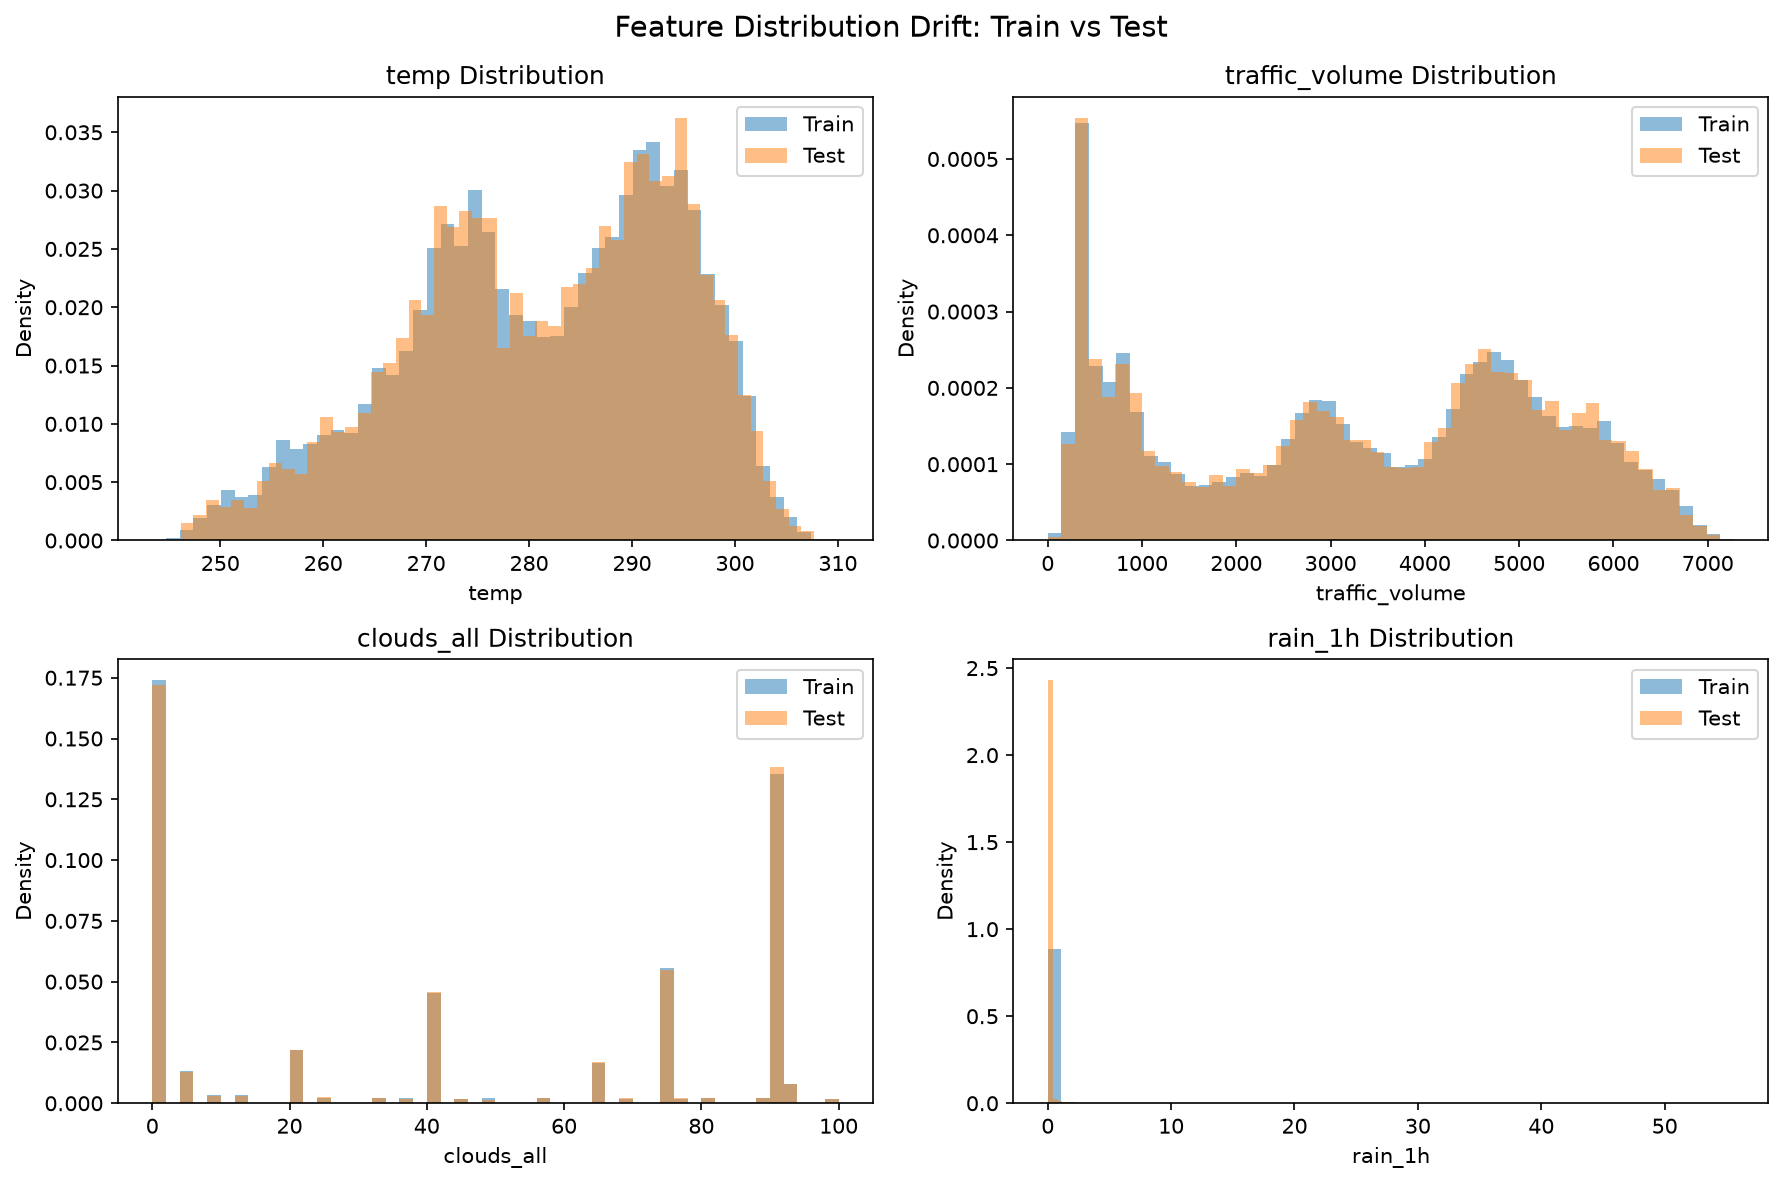
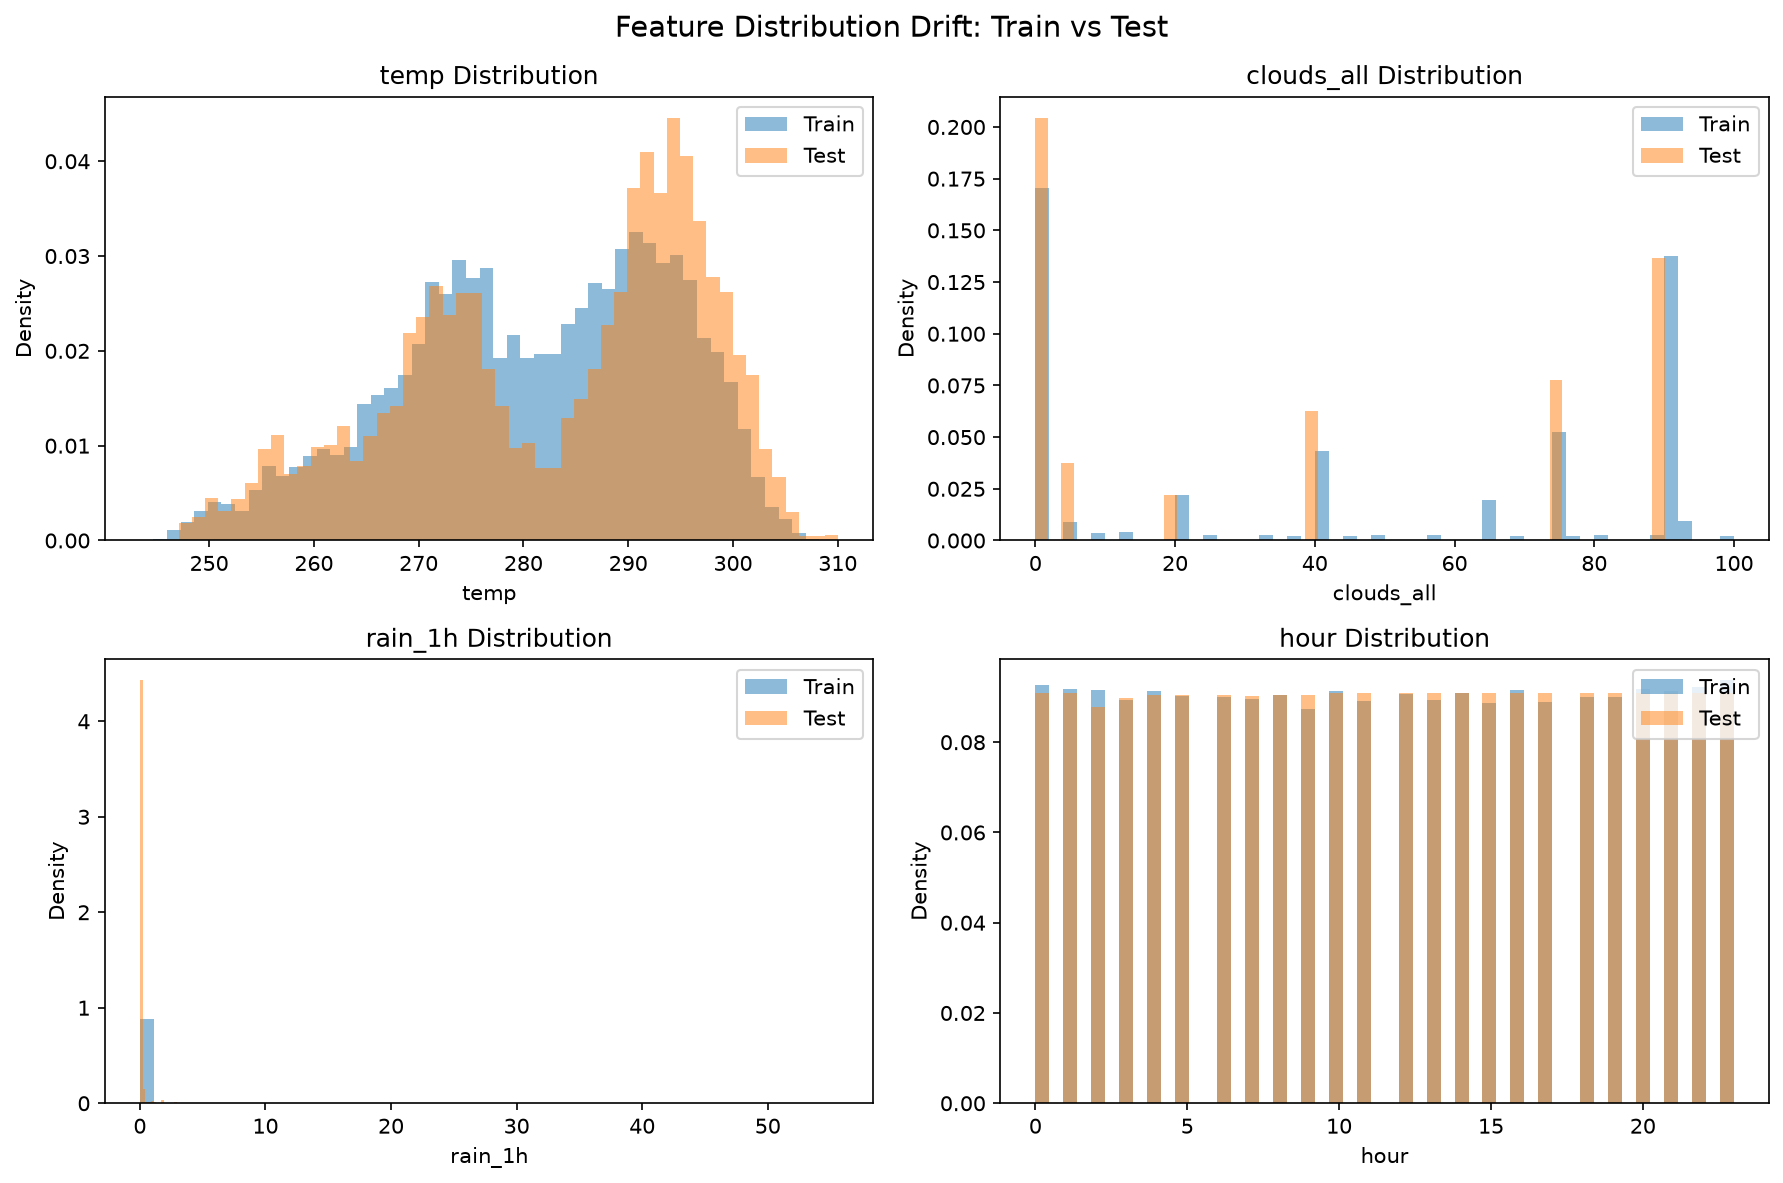
Part 3: time-based drift monitoring using 2018 as production data

diff --git a/capstone_part3/monitoring.py b/capstone_part3/monitoring.py
@@ -186,61 +186,117 @@ def save_drift_visualization(
 
 
 def run_monitoring() -> None:
-    """Execute the full monitoring pipeline."""
-    # Paths relative to project root
+    """Execute time-based drift monitoring.
+
+    Training period: 2012–2017. Production period: 2018.
+    This simulates real deployment where a model trained on historical data
+    encounters new data over time.
+    """
     base_dir = os.path.dirname(os.path.dirname(os.path.abspath(__file__)))
     data_path = os.path.join(base_dir, "capstone_part2", "cleaned_traffic.csv")
     report_path = os.path.join(base_dir, "capstone_part3", "reports", "monitoring_report.txt")
     figure_path = os.path.join(base_dir, "figures", "monitoring_drift.png")
 
-    # 1. Load and engineer features
     df = load_and_engineer_features(data_path)
     feature_cols = get_feature_columns(df)
 
-    X = df[feature_cols]
-    y = df["traffic_volume"]
+    # Time-based split: train on 2012-2017, treat 2018 as production
+    train_mask = df["date_time"].dt.year <= 2017
+    prod_mask = df["date_time"].dt.year == 2018
+    df_train = df[train_mask].copy()
+    df_prod = df[prod_mask].copy()
 
-    # 2. Train/test split (80/20, random_state=42)
-    X_train, X_test, y_train, y_test = train_test_split(
-        X, y, test_size=0.2, random_state=42
+    logger.info("Training period: 2012-2017 (%d rows)", len(df_train))
+    logger.info("Production period: 2018 (%d rows)", len(df_prod))
+
+    if len(df_prod) == 0:
+        logger.error("No 2018 data found for production monitoring")
+        return
+
+    X_train = df_train[feature_cols]
+    y_train = df_train["traffic_volume"]
+    X_prod = df_prod[feature_cols]
+    y_prod = df_prod["traffic_volume"]
+
+    # Train model and get holdout MAE from training period
+    from sklearn.model_selection import train_test_split as tts
+    X_tr, X_holdout, y_tr, y_holdout = tts(
+        X_train, y_train, test_size=0.2, random_state=42
     )
+    model = train_model(X_tr, y_tr)
 
-    # 3. Train model
-    model = train_model(X_train, y_train)
+    holdout_pred = model.predict(X_holdout)
+    holdout_mae = np.abs(y_holdout.values - holdout_pred).mean()
 
-    # 4. Generate predictions on holdout set (keep chronological order for drift)
-    #    Re-sort test set by original index to preserve chronological order
-    test_idx_sorted = X_test.index.sort_values()
-    X_test_sorted = X_test.loc[test_idx_sorted]
-    y_test_sorted = y_test.loc[test_idx_sorted]
+    prod_pred = model.predict(X_prod)
+    prod_mae = np.abs(y_prod.values - prod_pred).mean()
 
-    y_pred = model.predict(X_test_sorted)
+    pct_change = (prod_mae - holdout_mae) / holdout_mae if holdout_mae > 0 else 0
+    drift_status = "ALERT" if abs(pct_change) > 0.20 else "PASS"
 
-    # 5. Prediction error drift check
-    error_drift = check_prediction_error_drift(
-        y_test_sorted.values, y_pred, threshold=0.20
-    )
+    if drift_status == "ALERT":
+        logger.warning(
+            "Prediction error drift detected: holdout MAE=%.2f, production MAE=%.2f, change=%+.1f%%",
+            holdout_mae, prod_mae, pct_change * 100,
+        )
+    else:
+        logger.info(
+            "Prediction error drift: holdout MAE=%.2f, production MAE=%.2f, change=%+.1f%%, status=%s",
+            holdout_mae, prod_mae, pct_change * 100, drift_status,
+        )
 
-    # 6. Feature distribution drift check
-    drift_features = ["temp", "traffic_volume", "clouds_all", "rain_1h"]
-    feature_drift = check_feature_drift(
-        df.loc[X_train.index], df.loc[X_test.index], drift_features
-    )
+    error_drift = {
+        "status": drift_status,
+        "first_half_mae": holdout_mae,
+        "second_half_mae": prod_mae,
+        "pct_change": pct_change,
+        "label_first": "2012-2017 holdout",
+        "label_second": "2018 production",
+    }
 
-    # 7. Generate and print report
-    report = generate_report(error_drift, feature_drift)
+    # Feature distribution drift: KS test on key features (train vs 2018)
+    drift_features = ["temp", "clouds_all", "rain_1h", "hour"]
+    feature_drift = check_feature_drift(df_train, df_prod, drift_features)
+
+    for fd in feature_drift:
+        if fd["status"] == "ALERT":
+            logger.warning(
+                "Feature drift ALERT on %s: KS=%.4f, p=%.4f",
+                fd["feature"], fd["ks_statistic"], fd["p_value"],
+            )
+
+    # Generate report
+    lines = [
+        "=" * 60,
+        "MODEL MONITORING REPORT",
+        "=" * 60,
+        "",
+        "Training period:    2012-2017",
+        f"Production period:  2018 ({len(df_prod)} records)",
+        "",
+        "--- Prediction Error Drift ---",
+        f"  Holdout MAE (2012-2017): {holdout_mae:.2f}",
+        f"  Production MAE (2018):   {prod_mae:.2f}",
+        f"  Change:                  {pct_change * 100:+.2f}%",
+        f"  Status:                  [{drift_status}]",
+        "",
+        "--- Feature Distribution Drift (KS Test: train vs 2018) ---",
+    ]
+    for fd in feature_drift:
+        lines.append(
+            f"  {fd['feature']:20s}  KS={fd['ks_statistic']:.4f}  "
+            f"p={fd['p_value']:.4f}  [{fd['status']}]"
+        )
+    lines.extend(["", "=" * 60])
+    report = "\n".join(lines)
     print(report)
 
-    # 8. Save report
     os.makedirs(os.path.dirname(report_path), exist_ok=True)
     with open(report_path, "w") as f:
         f.write(report)
     logger.info("Monitoring report saved to %s", report_path)
 
-    # 9. Save drift visualization
-    save_drift_visualization(
-        df.loc[X_train.index], df.loc[X_test.index], drift_features, figure_path
-    )
+    save_drift_visualization(df_train, df_prod, drift_features, figure_path)
 
 
 if __name__ == "__main__":
